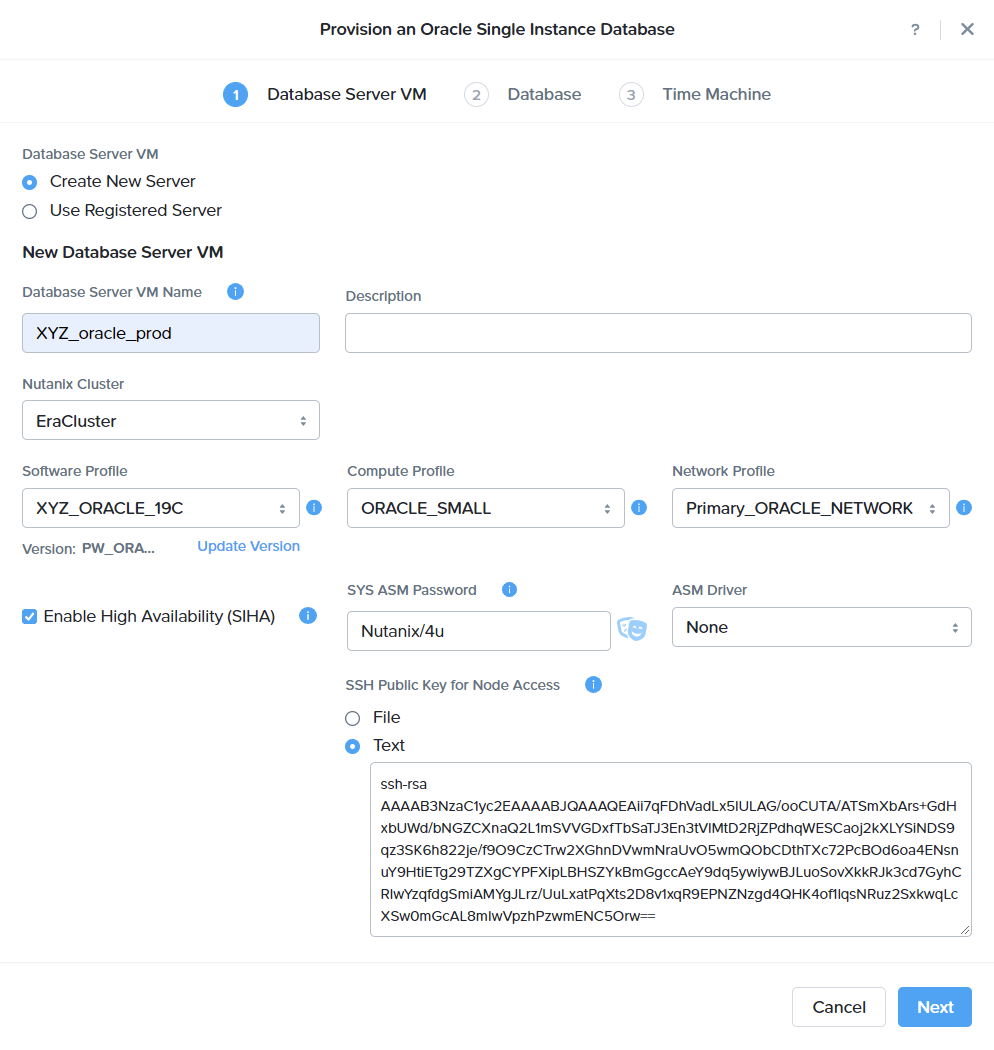
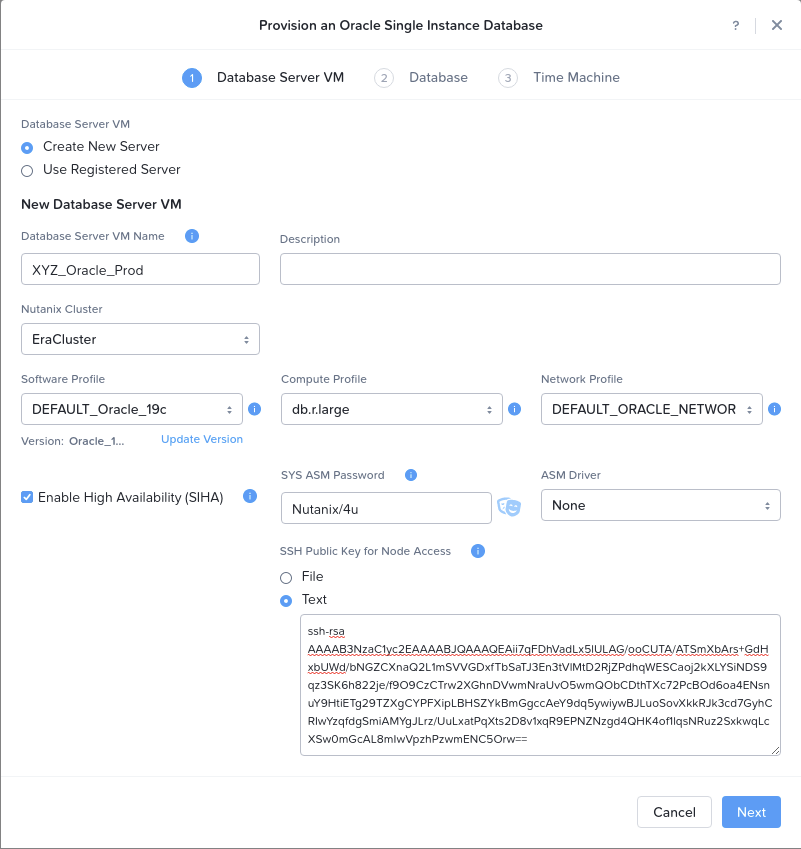
Update 7

diff --git a/deploy_oracle_era/deploy_oracle_era.rst b/deploy_oracle_era/deploy_oracle_era.rst
@@ -28,7 +28,7 @@ In this exercise you will deploy a fresh Oracle database using a Nutanix Era pre
    - **Compute Profile** - db.r.large
    - **Network Profile** - DEFAULT_ORACLE_NETWORK (be careful NOT to select DEFAULT_OOB_ORACLE_NETWORK)
    - Select **Enable High Availability**
-   - **SYS ASM Password** - Nutanix#4u
+   - **SYS ASM Password** - Nutanix/4u
    - **ASM Driver** - None
    - **SSH Public Key for Node Access** - Select **Text** and copy and paste the below into the *Text* box.
 
@@ -55,7 +55,7 @@ In this exercise you will deploy a fresh Oracle database using a Nutanix Era pre
 
    -  **Database Name** - *Alias*\ _proddb
    -  **SID** - *Alias*\ prod
-   -  **SYS and SYSTEM Password** - Nutanix#4u
+   -  **SYS and SYSTEM Password** - Nutanix/4u
    -  **Database Parameter Profile** - ORACLE_r.large_PARAMS
 
 |
